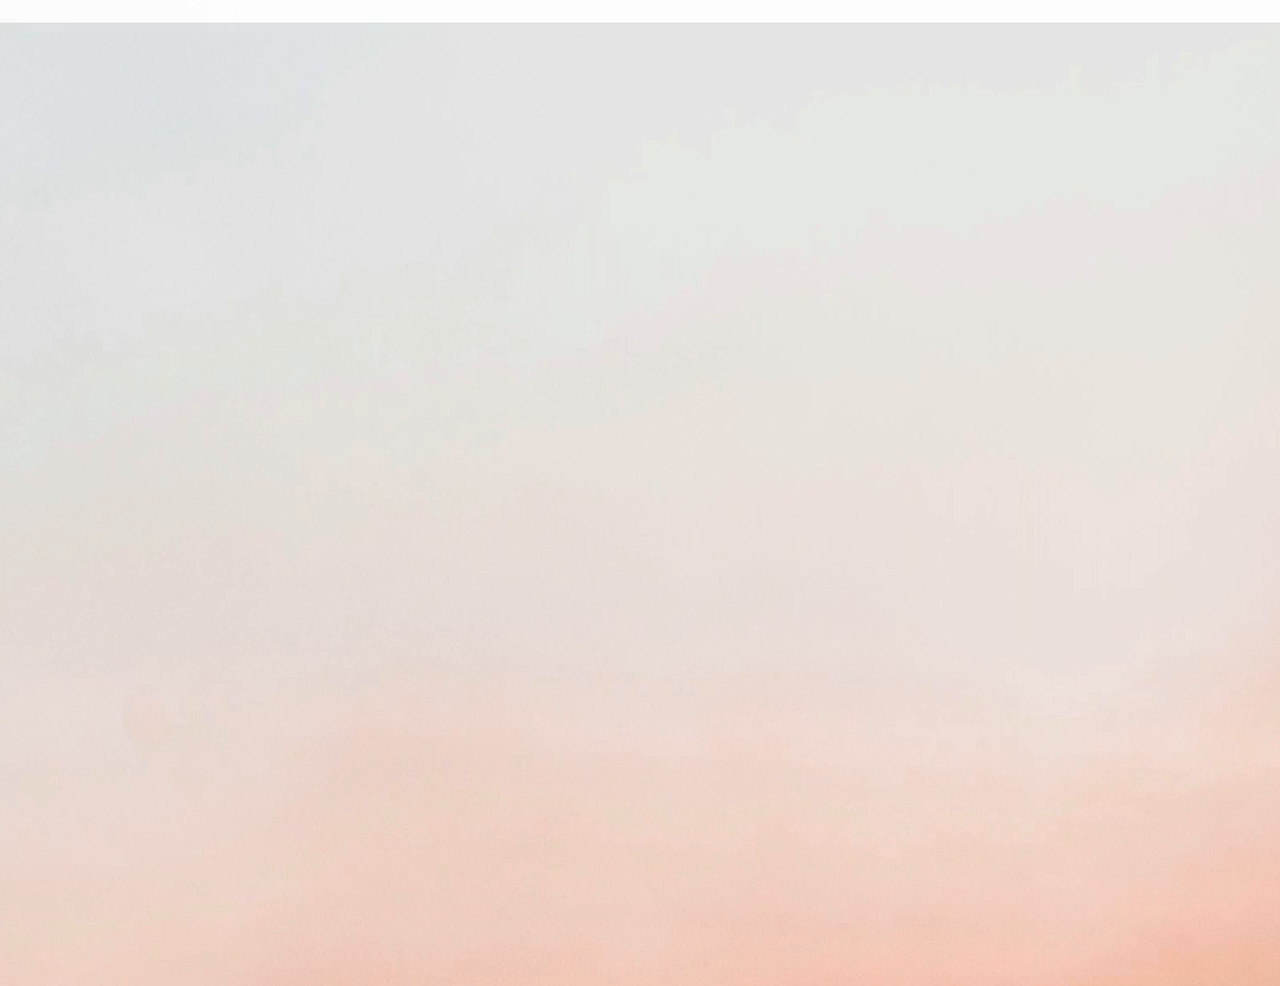
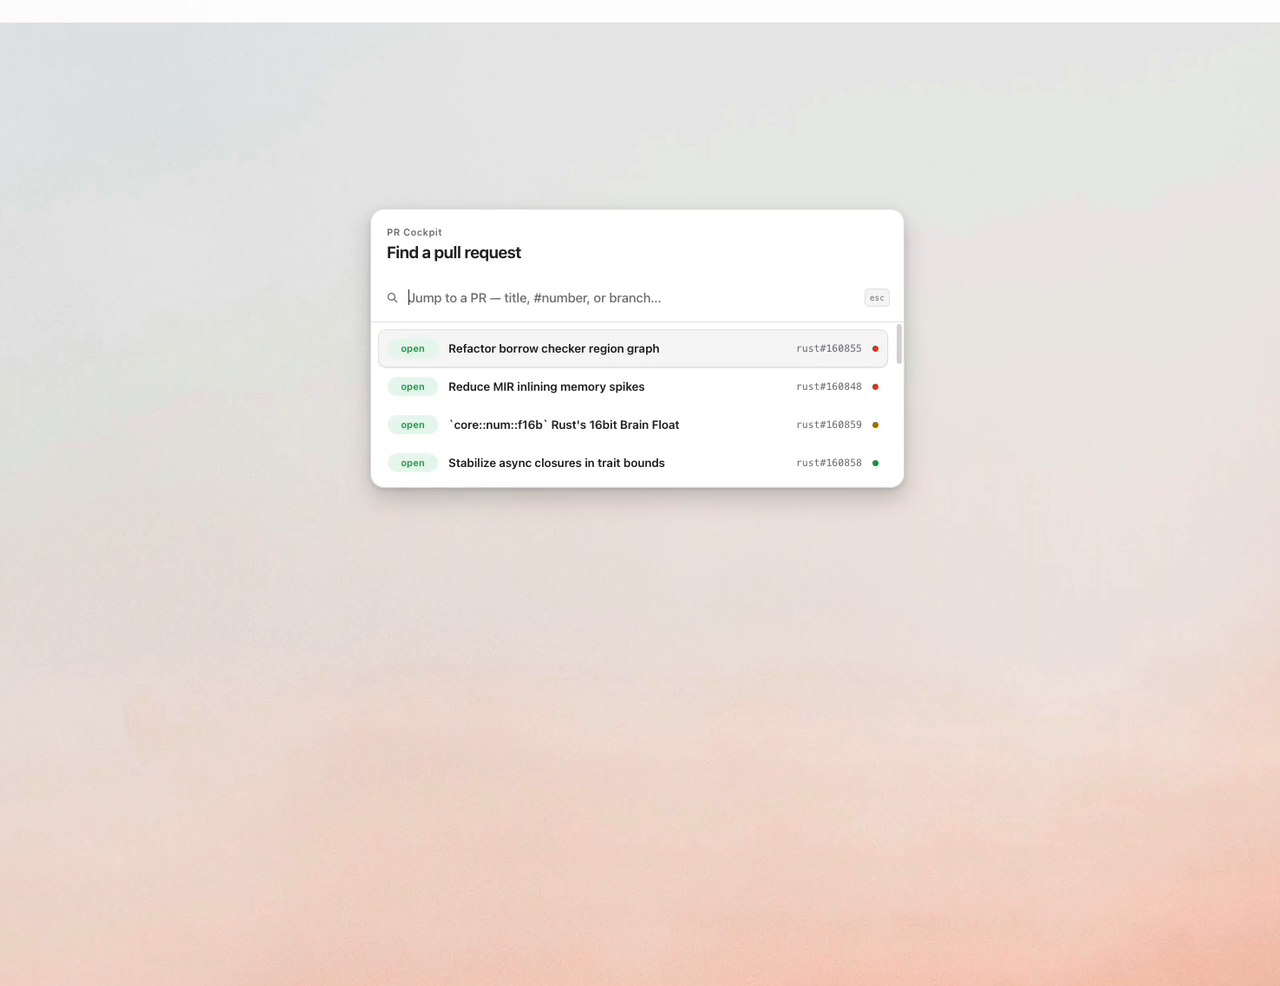
Address landing review findings

Changed region(s): [[0.2812, 0.213, 0.7188, 0.5172]]

diff --git a/docs/index.html b/docs/index.html
@@ -207,7 +207,7 @@
       overflow: hidden;
       color: var(--green);
       font-family: var(--mono);
-      font-size: 9px;
+      font-size: 10px;
       font-weight: 650;
       line-height: 1.35;
       text-align: right;
@@ -235,7 +235,7 @@
     }
 
     .benchmark-product.unavailable .benchmark-value {
-      font-size: 9px;
+      font-size: 10px;
       letter-spacing: 0.04em;
       text-transform: uppercase;
     }
@@ -291,7 +291,7 @@
       overflow: hidden;
       color: var(--text-dim);
       font-family: var(--mono);
-      font-size: 8px;
+      font-size: 10px;
       font-weight: 650;
       letter-spacing: 0.04em;
       text-overflow: ellipsis;
@@ -322,7 +322,7 @@
     .benchmark-unit {
       color: var(--text-faint);
       font-family: var(--mono);
-      font-size: 8px;
+      font-size: 10px;
     }
 
     .benchmark-meta {
@@ -338,7 +338,7 @@
       margin: 0;
       color: var(--text-faint);
       font-family: var(--mono);
-      font-size: 8px;
+      font-size: 10px;
       white-space: nowrap;
     }
 
@@ -1279,7 +1279,7 @@
       }
 
       .benchmark-product-name {
-        font-size: 8px;
+        font-size: 10px;
       }
 
       .benchmark-value {
@@ -1639,7 +1639,7 @@
           </div>
         </div>
         <div class="video-mat">
-          <video id="search-demo-video" class="search-demo-video" poster="screenshots/landing-search-poster.png?v=20260821" width="1280" height="986" muted playsinline loop aria-label="Screen recording of PR Cockpit: Option-Command-K opens pull request search over the review queue, typing narrows the results to one pull request, and Enter opens its full detail from the local cache.">
+          <video id="search-demo-video" class="search-demo-video" poster="screenshots/landing-search-poster.png?v=20260821-palette" width="1280" height="986" muted playsinline loop aria-label="Screen recording of PR Cockpit: Option-Command-K opens pull request search over the review queue, typing narrows the results to one pull request, and Enter opens its full detail from the local cache.">
             <source src="screenshots/landing-search.webm?v=20260821" type="video/webm" />
             <source src="screenshots/landing-search.mp4?v=20260821" type="video/mp4" />
           </video>
@@ -1676,7 +1676,7 @@
         <div class="section-intro">
           <div>
             <h2 class="section-title">Hide tests. See the change.</h2>
-            <p class="section-lede">react/react#36134 fixes a <code>useDeferredValue</code> stall in one source file, backed by two regression-test files. Press <kbd>x</kbd> and the tests fold away — the product change is the only file left in view.</p>
+            <p class="section-lede">react/react#36134 fixes a <code>useDeferredValue</code> stall in one source file, backed by two regression-test files. Press <kbd>x</kbd> and the two test diffs fold closed — the product change stays open.</p>
           </div>
         </div>
         <div class="compare-grid">
@@ -1689,10 +1689,10 @@
             </div>
           </figure>
           <figure class="compare-side">
-            <figcaption class="compare-label">PR Cockpit · 2 test files hidden</figcaption>
+            <figcaption class="compare-label">PR Cockpit · 2 test diffs folded</figcaption>
             <div class="shot-shell">
-              <button class="shot-button" type="button" data-lightbox="screenshots/landing-hide-tests-cockpit.png?v=react-36134" aria-label="Open PR Cockpit hidden tests screenshot">
-                <img src="screenshots/landing-hide-tests-cockpit.png?v=react-36134" alt="PR Cockpit unified diff for react/react#36134 with the two regression-test files hidden and only ReactFiberWorkLoop.js left in view" width="1280" height="980" loading="lazy">
+              <button class="shot-button" type="button" data-lightbox="screenshots/landing-hide-tests-cockpit.png?v=react-36134" aria-label="Open PR Cockpit folded tests screenshot">
+                <img src="screenshots/landing-hide-tests-cockpit.png?v=react-36134" alt="PR Cockpit unified diff for react/react#36134 with both regression-test diffs folded and ReactFiberWorkLoop.js expanded" width="1280" height="980" loading="lazy">
               </button>
             </div>
           </figure>
@@ -2072,6 +2072,7 @@
       showcase.querySelector("[data-showcase-prev]").addEventListener("click", () => activateShowcase(showcaseIndex - 1, false));
       showcase.querySelector("[data-showcase-next]").addEventListener("click", () => activateShowcase(showcaseIndex + 1, false));
       const handleShowcaseKey = (event) => {
+        if (event.currentTarget === showcaseStage && event.target !== showcaseStage) return;
         const step = { ArrowLeft: -1, ArrowRight: 1 }[event.key];
         if (step) {
           event.preventDefault();
